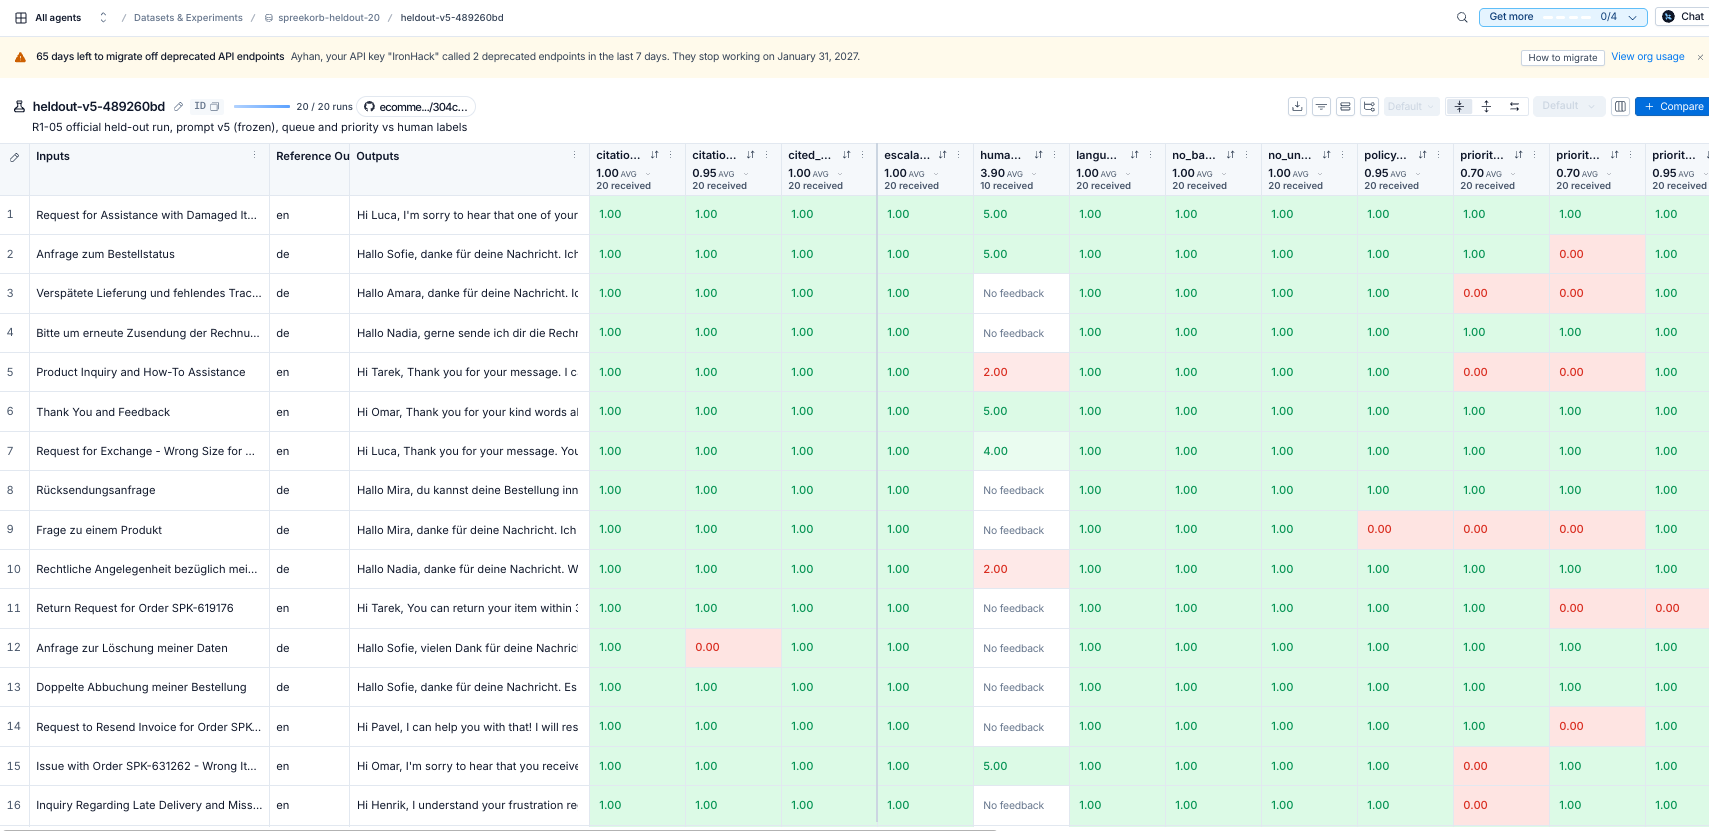
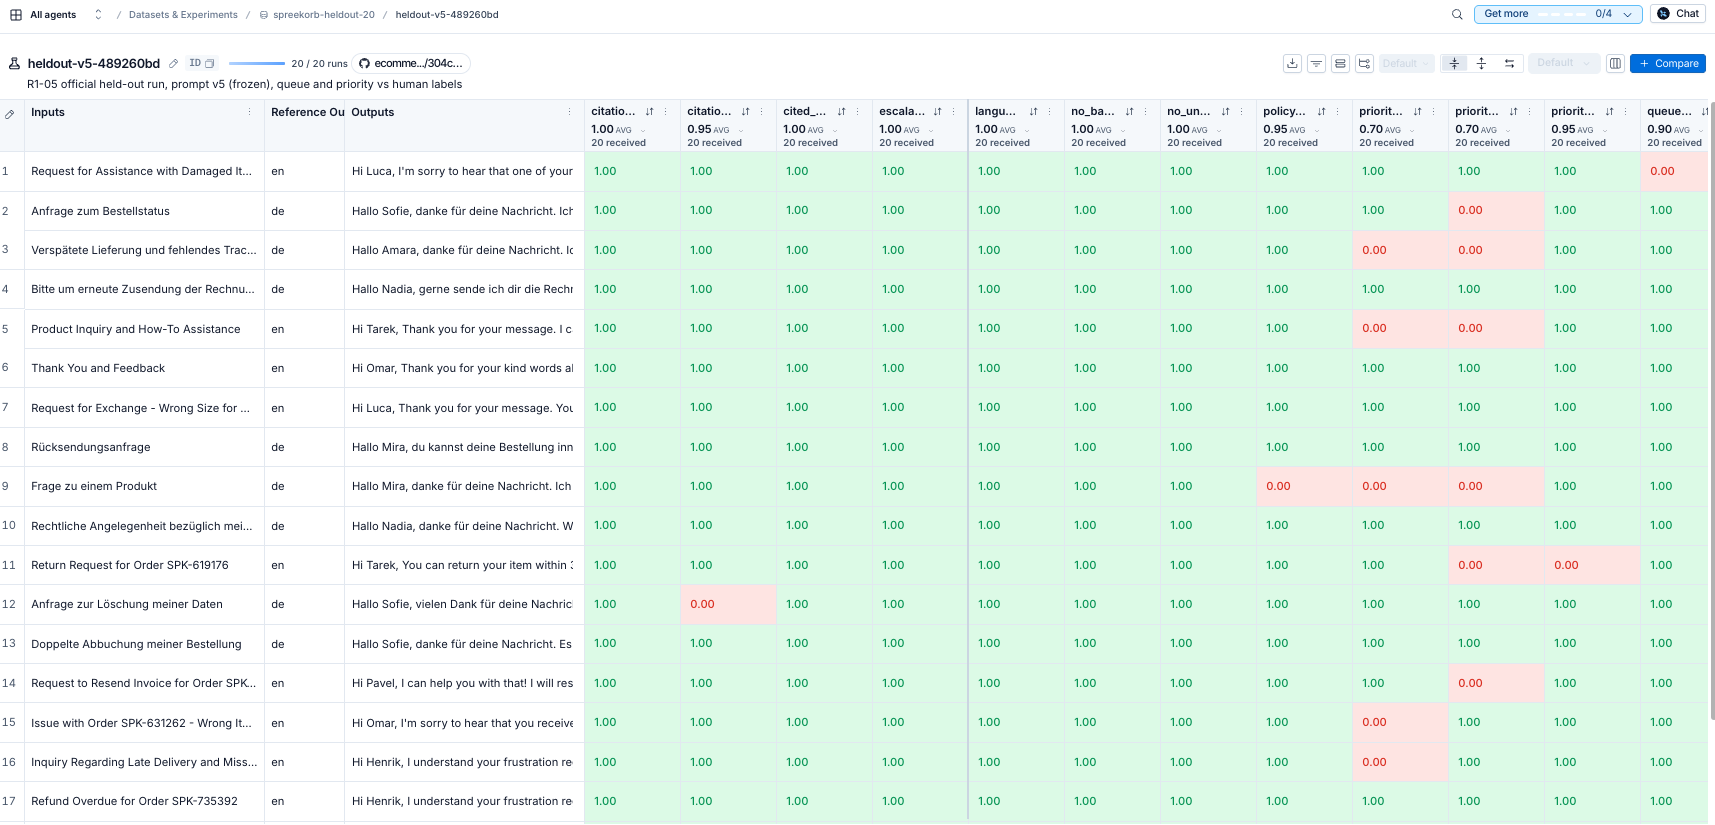
r1-05 finaliyed and approved

diff --git a/board.md b/board.md
@@ -11,7 +11,7 @@ Status: To do > In progress > Review > Approved > Done. Only Ayhan sets Approved
 | R1-02b | Synthetic Spreekorb emails | (spec in chat, 27 Nov) | Review | notebooks/R1-02b_synthetic_emails.ipynb | Builder done (not run): 60 synthetic emails (14 topics, grid +4 approved to reach 60), 30 de/30 en, 40 tuning/20 heldout, 10 timing; writes spreekorb_emails_60.csv, langsmith/heldout_labels_v2.csv, README block. Reason: Tobi tickets are SaaS/IT. Reviewer/data/compliance: small fixes, 1 fix round done (PII + leak checks, labels file without intended cols, README transparency, safe undo); prompt extras + load_dotenv accepted by Ayhan. Ayhan to run. |
 | R1-03 | Tableau dashboard | specs/R1-03_dashboard.md | Approved | notebooks/R1-03_dashboard_prep.ipynb | Builder done, 1 fix round after reviewer + data check; notebook writes 7 metric CSVs (dashboard/data/, small spec extension) + dashboard_documentation.md; Tableau built: .twbx + screenshot in dashboard/, Public link in docs, 2-minute test 27 Nov 5 of 6 passed (M4 badge enlarged); M7 pending R1-05. Approved by Ayhan 27 Nov 2026. |
 | R1-04 | n8n POC | specs/R1-04_n8n_poc.md | To do | | |
-| R1-05 | LangSmith sample | specs/R1-05_langsmith.md | Review | notebooks/R1-05_langsmith.ipynb | Update 27 Nov: switched to synthetic Spreekorb set (dev spreekorb-dev-v4 = 14 tuning, held-out spreekorb-heldout-20 vs Ayhan labels in heldout_labels_v2.csv), 10 evaluators, trace_summary 20 + timing 10, human_review 10, monitoring_note. Not run; prompt v4 = n8n OK; reviewer + data-checker minor fixes applied (key-leak regex, no dev run when frozen, note: label agreement, n<5 anecdotal, new-version rule, cost wording, final PASS count after undo); dotenv double read left (guard hook). Ayhan to run. Update 27 Nov (prompt v5): language field first, 13 evaluators (+signoff_ok, no_unknown_status, citations_unique), word_count 40-120, citations_used skips how-to/thanks, S35 blank-score fix (safe() + per-run readiness); prefix dev-v5. Reviewer OK. Not run; Ayhan to run. Update 27 Nov: LLM judges removed (Ayhan: moved to Round 2, via the LangSmith platform; code kept in _backup/20261127_140432_R1-05nojudges). Kept: gpt-4o-mini prices with source, human_review allows extra columns after note, blank-score detail in verify. Backfill cell r105-12b re-scores only scores LangSmith did not store (S22, S34; code checks, no API cost). Ayhan to run. |
+| R1-05 | LangSmith sample | specs/R1-05_langsmith.md | Approved | notebooks/R1-05_langsmith.ipynb | Update 27 Nov: switched to synthetic Spreekorb set (dev spreekorb-dev-v4 = 14 tuning, held-out spreekorb-heldout-20 vs Ayhan labels in heldout_labels_v2.csv), 10 evaluators, trace_summary 20 + timing 10, human_review 10, monitoring_note. Not run; prompt v4 = n8n OK; reviewer + data-checker minor fixes applied (key-leak regex, no dev run when frozen, note: label agreement, n<5 anecdotal, new-version rule, cost wording, final PASS count after undo); dotenv double read left (guard hook). Ayhan to run. Update 27 Nov (prompt v5): language field first, 13 evaluators (+signoff_ok, no_unknown_status, citations_unique), word_count 40-120, citations_used skips how-to/thanks, S35 blank-score fix (safe() + per-run readiness); prefix dev-v5. Reviewer OK. Not run; Ayhan to run. Update 27 Nov: LLM judges removed (Ayhan: moved to Round 2, via the LangSmith platform; code kept in _backup/20261127_140432_R1-05nojudges). Kept: gpt-4o-mini prices with source, human_review allows extra columns after note, blank-score detail in verify. Backfill cell r105-12b re-scores only scores LangSmith did not store (S22, S34; code checks, no API cost). Run by Ayhan: all checks PASS, held-out heldout-v5-489260bd, trace_summary.csv ready for R1-03 M7 and R1-06, screenshots + share link in monitoring_note.md. Approved by Ayhan 27 Nov 2026. |
 | R1-06 | Timing + cost + timeline | specs/R1-06_cost_timeline.md | To do | | |
 | R1-07 | README + submit | specs/R1-07_submit.md | To do | | |
 | R1-08 | Round 1 decision | specs/R1-08_decision.md | To do | | |

diff --git a/logs/agent_log.md b/logs/agent_log.md
@@ -229,3 +229,7 @@ n=dat |
 | 2026-11-27 14:14 | Bash | cd "/Users/macbook-air/Desktop/AI consulting/Week8/Day4/ecommerce_customersatisfaction_adiadoption"; /opt/anaconda3/envs |
 | 2026-11-27 14:14 | Edit | /Users/macbook-air/Desktop/AI consulting/Week8/Day4/ecommerce_customersatisfaction_adiadoption/board.md |
 | 2026-11-27 14:17 | Edit | /Users/macbook-air/.claude/projects/-Users-macbook-air-Desktop-AI-consulting-Week8-Day4-ecommerce-customersatisfaction-a |
+| 2026-11-27 14:28 | Bash | cd "/Users/macbook-air/Desktop/AI consulting/Week8/Day4/ecommerce_customersatisfaction_adiadoption"; grep -n "PENDING\/j |
+| 2026-11-27 14:29 | Bash | cd "/Users/macbook-air/Desktop/AI consulting/Week8/Day4/ecommerce_customersatisfaction_adiadoption"; cp board.md "_backu |
+| 2026-11-27 14:29 | Bash | cd "/Users/macbook-air/Desktop/AI consulting/Week8/Day4/ecommerce_customersatisfaction_adiadoption"; grep -o "Source: [^ |
+| 2026-11-27 14:29 | Edit | /Users/macbook-air/.claude/projects/-Users-macbook-air-Desktop-AI-consulting-Week8-Day4-ecommerce-customersatisfaction-a |
